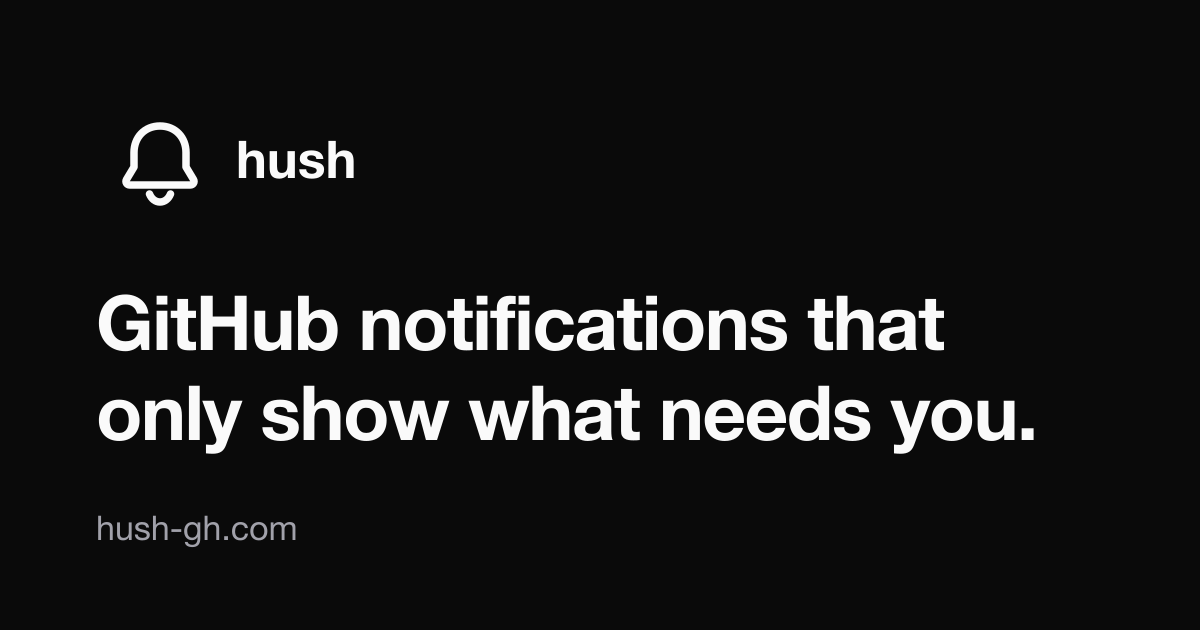
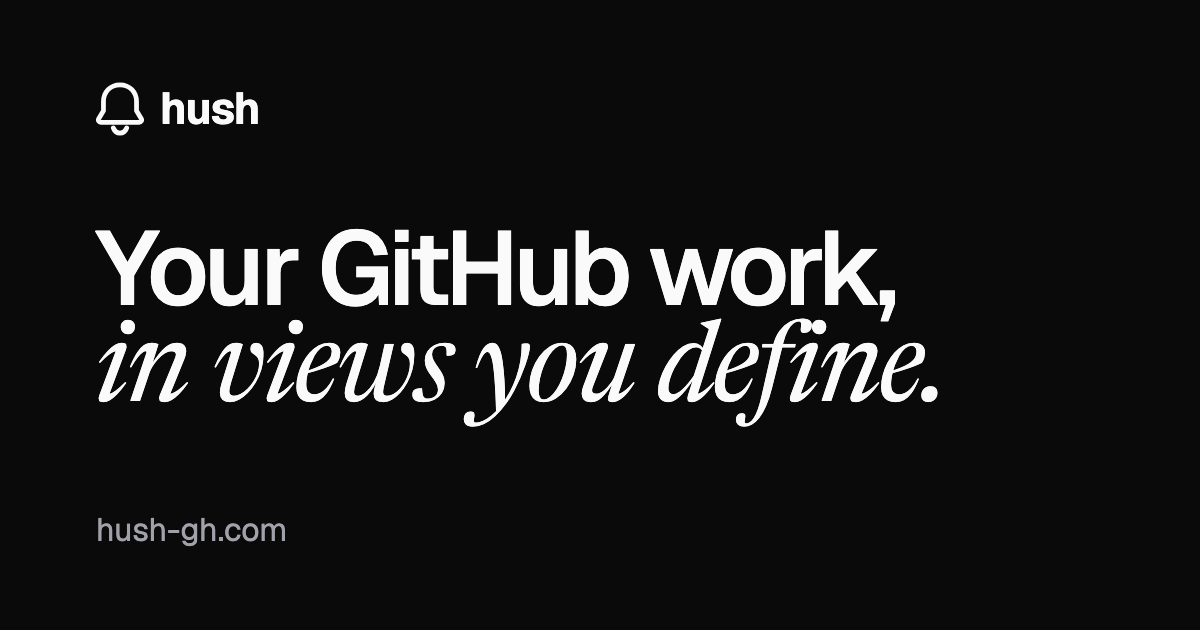
Polish the public site before launch
- Privacy, security, limits: Hush reads a PR's changed files in the Files
  tab, so drop "Hush does not read code". Security lists the project scope
  and all writes; privacy says who sees uploaded images and videos
- Landing: E snoozes until new activity (S is until tomorrow); "A snooze
  ends" is a default push fact, also in Getting started
- Docs: remove the inbox and removed-settings notes; no reader of the
  public site used them
- Meta: descriptions fit a search snippet (160 characters, now tested),
  pricing's comes from the plans; og:image:alt and twitter:image:alt
- og.png says "Your GitHub work, in views you define." in the hero's
  fonts. Its source is scripts/assets/og.html; render it with
  chrome --headless --window-size=1200,630 --screenshot
- apple-touch-icon.png: 180px, no transparency, so iOS does not put the
  icon on black; the manifest description matches the site
- "color", not "colour", in the category error

Changed region(s): [[0.0617, 0.3619, 0.8633, 0.7238], [0.0617, 0.1206, 0.3083, 0.3317], [0.0925, 0.8143, 0.2467, 0.8746]]

diff --git a/scripts/assets/og.html b/scripts/assets/og.html
@@ -1,0 +1,89 @@
+<!doctype html>
+<html lang="en">
+	<head>
+		<meta charset="utf-8" />
+		<title>Hush link preview</title>
+		<style>
+			@font-face {
+				font-family: 'Geist';
+				src: url('../../node_modules/@fontsource-variable/geist/files/geist-latin-wght-normal.woff2')
+					format('woff2');
+				font-weight: 100 900;
+			}
+			@font-face {
+				font-family: 'Newsreader';
+				src: url('../../node_modules/@fontsource-variable/newsreader/files/newsreader-latin-opsz-italic.woff2')
+					format('woff2');
+				font-style: italic;
+			}
+			html,
+			body {
+				margin: 0;
+				width: 1200px;
+				height: 630px;
+				overflow: hidden;
+				background: #0a0a0a;
+				color: #fafafa;
+				font-family: 'Geist', sans-serif;
+			}
+			main {
+				box-sizing: border-box;
+				height: 100%;
+				padding: 80px 96px;
+				display: flex;
+				flex-direction: column;
+			}
+			.brand {
+				display: flex;
+				align-items: center;
+				gap: 16px;
+				font-size: 44px;
+				font-weight: 650;
+				letter-spacing: -0.02em;
+			}
+			h1 {
+				margin: auto 0;
+				font-size: 104px;
+				font-weight: 560;
+				line-height: 1;
+				letter-spacing: -0.045em;
+			}
+			h1 em {
+				display: block;
+				font-family: 'Newsreader', Georgia, serif;
+				font-weight: 400;
+				font-size: 1.06em;
+				letter-spacing: -0.015em;
+			}
+			.domain {
+				font-size: 32px;
+				color: #a1a1aa;
+			}
+		</style>
+	</head>
+	<body>
+		<main>
+			<div class="brand">
+				<svg width="48" height="56" viewBox="105 105 302 335" aria-hidden="true">
+					<path
+						d="M256 120c-62 0-104 46-104 106v58l-30 50c-6 10 1 22 13 22h242c12 0 19-12 13-22l-30-50v-58c0-60-42-106-104-106z"
+						fill="none"
+						stroke="#fafafa"
+						stroke-width="30"
+						stroke-linejoin="round"
+					/>
+					<path
+						d="M214 392c8 20 24 32 42 32s34-12 42-32"
+						fill="none"
+						stroke="#fafafa"
+						stroke-width="30"
+						stroke-linecap="round"
+					/>
+				</svg>
+				hush
+			</div>
+			<h1>Your GitHub work, <em>in views you define.</em></h1>
+			<div class="domain">hush-gh.com</div>
+		</main>
+	</body>
+</html>

diff --git a/src/routes/(site)/+page.svelte b/src/routes/(site)/+page.svelte
@@ -20,7 +20,7 @@
 
 	const SIGN_IN_URL = `${APP_URL}/login`;
 	const DESCRIPTION =
-		'Hush for GitHub is an open-source web app for the pull requests and issues that you work on: GitHub searches that stay live as views, grouped your way, with pushes for the facts that you choose, and a side panel to approve, comment, and merge.';
+		'An open-source web app for your GitHub pull requests and issues: live searches as views, grouped your way, with pushes for the facts that you choose.';
 
 	const FACTS = [
 		{ name: 'Review requested', on: true },
@@ -30,6 +30,7 @@
 		{ name: 'Changes requested', on: true },
 		{ name: 'CI failed', on: true },
 		{ name: 'Assigned', on: true },
+		{ name: 'A snooze ends', on: true },
 		{ name: 'CI passed', on: false },
 		{ name: 'New in a view', on: false }
 	];
@@ -211,8 +212,8 @@
 					or merge. Your draft waits if you close it.
 				</p>
 				<p>
-					Not now? <kbd>S</kbd> snoozes until there is new activity, <kbd>M</kbd> mutes, and
-					<kbd>U</kbd> marks it unread. They stay in Hush.
+					Not now? <kbd>E</kbd> snoozes until there is new activity, <kbd>S</kbd> until tomorrow,
+					<kbd>M</kbd> mutes, and <kbd>U</kbd> marks it unread. They stay in Hush.
 				</p>
 				<p class="note">Hush writes to GitHub only when you do.</p>
 				<a class="link" href="/docs/peek"

diff --git a/src/lib/compare/content.ts b/src/lib/compare/content.ts
@@ -43,7 +43,7 @@ export const COMPARE_INDEX: ComparePage & { path: string } = {
 	path: '/compare',
 	title: 'GitHub notification and pull request tools compared',
 	description:
-		'Hush next to GitHub’s own notifications, Gitify, Octobox, Graphite, gh-dash, Neat, Notifier for GitHub, and gh-hush: what each one does well, and who should choose which.',
+		'Hush next to GitHub’s own notifications, Gitify, Octobox, Graphite, gh-dash, Neat, Notifier for GitHub, and gh-hush: what each does well, and who it suits.',
 	markdown: `## Summary
 
 **GitHub's own inbox is free and built in, and sorts by time. Other tools add a desktop app (Gitify, Neat), a self-hosted web inbox (Octobox), terminal sections of pull requests and issues (gh-dash), a toolbar badge (Notifier for GitHub), team code review (Graphite), or a cleanup command (gh-hush). Hush is a web app for your GitHub work, in views that you define, with pushes for the facts that you choose.**

diff --git a/src/lib/site.test.ts b/src/lib/site.test.ts
@@ -1,0 +1,17 @@
+import { describe, expect, it } from 'vitest';
+import { ABOUT } from '$lib/about';
+import { COMPARE, COMPARE_INDEX } from '$lib/compare/content';
+import { DOCS } from '$lib/docs';
+import { GUIDES, GUIDES_INDEX } from '$lib/guides/content';
+import { SEARCH_SNIPPET_LENGTH } from './site';
+
+const PAGES = [...DOCS, ...ABOUT, ...COMPARE, COMPARE_INDEX, ...GUIDES, GUIDES_INDEX];
+
+describe('site page descriptions', () => {
+	it('fit in a search result snippet', () => {
+		for (const page of PAGES)
+			expect(page.description.length, page.slug || page.title).toBeLessThanOrEqual(
+				SEARCH_SNIPPET_LENGTH
+			);
+	});
+});

diff --git a/src/lib/components/site/site-meta.svelte b/src/lib/components/site/site-meta.svelte
@@ -25,6 +25,7 @@
 	} = $props();
 	const url = $derived(SITE_URL + path);
 	const image = `${SITE_URL}/og.png`;
+	const imageAlt = `${SITE_NAME}: your GitHub work, in views you define.`;
 </script>
 
 <svelte:head>
@@ -45,7 +46,9 @@
 		<meta property="og:image" content={image} />
 		<meta property="og:image:width" content="1200" />
 		<meta property="og:image:height" content="630" />
+		<meta property="og:image:alt" content={imageAlt} />
 		<meta name="twitter:card" content="summary_large_image" />
+		<meta name="twitter:image:alt" content={imageAlt} />
 		{#each structuredData as data, i (i)}
 			{@html jsonLdScript(data)}
 		{/each}

diff --git a/src/lib/shared/categories.test.ts b/src/lib/shared/categories.test.ts
@@ -192,11 +192,11 @@ describe('defaults', () => {
 });
 
 describe('validation', () => {
-	it('refuses a bad rule, colour, or duplicate id', () => {
+	it('refuses a bad rule, color, or duplicate id', () => {
 		expect(validateCategoryGroups([group([{ ...BUGS, rule: '(label:x' }])])).toMatch(/“\(”/);
 		expect(
 			validateCategoryGroups([group([{ ...BUGS, color: 'black' as ItemCategory['color'] }])])
-		).toMatch(/colour/);
+		).toMatch(/color/);
 		expect(validateCategoryGroups([group([BUGS, BUGS])])).toMatch(/Two categories/);
 	});
 	it('needs category ids that are unique across groups', () => {

diff --git a/src/lib/guides/content.ts b/src/lib/guides/content.ts
@@ -24,7 +24,7 @@ export const GUIDES_INDEX: GuidePage & { path: string } = {
 	path: GUIDES_PATH,
 	title: 'GitHub notification guides',
 	description:
-		'Short how-to guides for GitHub notifications: less noise, only the review requests that need you, push to your phone, quiet bots, RSS feeds, and keyboard triage.',
+		'Short how-to guides for GitHub notifications: less noise, only the review requests that need you, push to your phone, quiet bots, RSS, and keyboard triage.',
 	markdown: `${GUIDES_INTRO}
 
 ${GUIDES.map((g) => `- [${g.title}](${guidePath(g)}): ${g.description}`).join('\n')}

diff --git a/src/lib/shared/categories.ts b/src/lib/shared/categories.ts
@@ -243,7 +243,7 @@ function validateCategory(c: Partial<ItemCategory> | null, ids: Set<string>): st
 	ids.add(c.id);
 	if (!validName(c.name))
 		return `Each category needs a name (${MAX_MARK_NAME_CHARS} characters or fewer).`;
-	if (!MARK_COLORS.includes(c.color as MarkColor)) return `"${c.name}": unknown colour.`;
+	if (!MARK_COLORS.includes(c.color as MarkColor)) return `"${c.name}": unknown color.`;
 	if (typeof c.rule !== 'string') return `"${c.name}": the rule must be text.`;
 	const err = c.rule.trim() ? queryError(c.rule) : null;
 	if (err) return `"${c.name}": ${err}`;

diff --git a/src/lib/about/index.ts b/src/lib/about/index.ts
@@ -27,7 +27,7 @@ const md = (slug: string): AboutPage => ({
 const pricing: AboutPage = {
 	slug: 'pricing',
 	title: 'Pricing',
-	description: 'What Hush costs, and what the money pays for.',
+	description: `${PRICING_NOTE} The plans, ${PLANS.map((p) => `$${p.price} a ${p.per}`).join(' or ')}, and what the money pays for.`,
 	markdown: `${PRICING_NOTE}
 
 ${PLANS.map((p) => `- **${p.name}:** $${p.price} a ${p.per}. ${p.note}`).join('\n')}

diff --git a/src/lib/components/app/marks/icon-picker.svelte b/src/lib/components/app/marks/icon-picker.svelte
@@ -67,7 +67,7 @@
 <Popover.Root bind:open>
 	<Popover.Trigger
 		class="flex size-8 shrink-0 items-center justify-center rounded-md border hover:bg-muted"
-		aria-label="{label}: icon and colour"
+		aria-label="{label}: icon and color"
 	>
 		<MarkIcon {color} {icon} class="size-4" />
 	</Popover.Trigger>

diff --git a/src/lib/guides/guides.test.ts b/src/lib/guides/guides.test.ts
@@ -36,7 +36,6 @@ describe('guides', () => {
 		for (const guide of GUIDES) {
 			expect(guide.title, guide.slug).toMatch(/^How to .*GitHub/);
 			expect(guide.description.length, guide.slug).toBeGreaterThan(60);
-			expect(guide.description.length, guide.slug).toBeLessThanOrEqual(240);
 		}
 	});
 

diff --git a/src/routes/+layout.svelte b/src/routes/+layout.svelte
@@ -9,7 +9,7 @@
 
 <svelte:head>
 	<link rel="icon" href={favicon} />
-	<link rel="apple-touch-icon" href="/icon-192.png" />
+	<link rel="apple-touch-icon" href="/apple-touch-icon.png" />
 	<meta name="theme-color" content="#0a0a0a" />
 	<title>Hush</title>
 </svelte:head>
